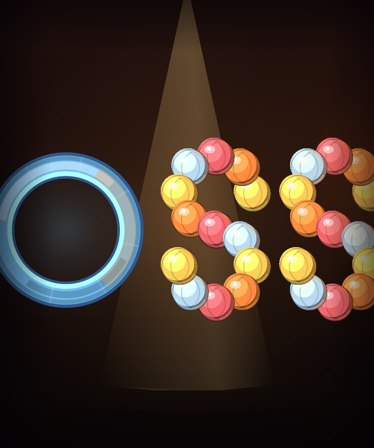
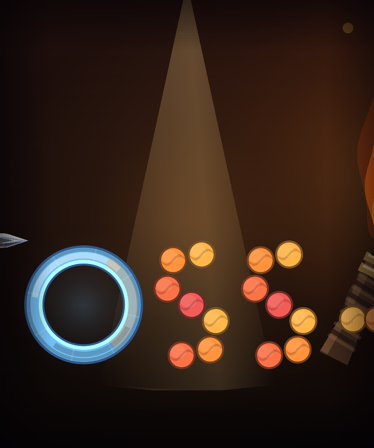
The title screen was the last bare draw_string menu in the game
The tagline is off the storefront capsule, and store/ was re-rendered - removing
a string from the code does not change the PNG anybody uploads, and that set was
still carrying the old club and the old mark besides.

The A's crossbar is four balls at the S's own size. One ball sized to the gap
made it the biggest ball in the picture, and a mark built out of props has to be
built out of the same props or the odd one reads as a different object. The count
is intervals PLUS ONE: sizing n to the span and spreading n balls over it leaves
n-1 gaps each wider than a ball, which is how the first try came out as three
balls with daylight between them.

Settings and Pause were both rebuilt off centred text rows into the shared card
language in July, for the reason recorded there. The title screen - the one that
makes the first impression - was still three lines of centred text. It has the
pause menu's language now, and the cards stand on the boards instead of floating
over a picture of a stage. menu_options() still decides what the rows are and
menu_input still drives menu_sel; only the dressing is new.

Four backdrops behind that one layout, in store/concepts/ beside the capsule
concepts. THE HOUSE ships: velvet, a box either side with heads on the rail,
footlights, boards. The old picture was a gradient, one cone and a row of bulbs
floating at the bottom edge attached to nothing, which is a lit void rather than
[…]

Changed region(s): [[0.4118, 0.1875, 1.0, 0.8438], [0.0, 0.3125, 0.3824, 0.8125], [0.9118, 0.0312, 0.9412, 0.0938]]

diff --git a/CLAUDE.md b/CLAUDE.md
@@ -598,6 +598,49 @@ rather than an implementation - see the foot of `tasks.md` for the two candidate
   **`--demo` now waits for the ovation before quitting**: it used to quit the frame the
   act resolved, which made the one path only a perfect act can reach impossible to test
   or screenshot at all.
+- **THE TITLE SCREEN IS A ROOM** (2026-07-30, Louis: "Make the title screen look better!, perhaps
+  just add some of your own ideas in the concepts folder, next to the rest"). Two halves, and the
+  first is not taste. **THE MENU WAS THE LAST BARE `draw_string` LIST IN THE GAME.** Settings and
+  Pause were both rebuilt off centred text rows into the shared card language in July for the
+  reason written down there - a flat row of text reads as cheap beside the shop and the sheet -
+  and the TITLE screen, the one that makes the first impression, was still doing it. `menu_rows`
+  gives the three options the pause menu's own language: an icon disc saying what the row does,
+  the name, a line under it saying where it goes, the lit one raised on its own colour. Nothing
+  about the list moved: `menu_options()` still decides what the rows ARE and `menu_input` still
+  drives `menu_sel`, so the dressing is a lookup keyed on the option's name and a name it does not
+  know simply draws plain.
+  **THE ROWS STAND ON THE BOARDS.** `oy` used to be a flat fraction of the screen with a
+  `mark_height()` floor under it; the cards are now laid so their FEET land just above the stage
+  lip (`MENU_FLOOR`), which is what makes them furniture in the room instead of text floating over
+  a picture of one. Clear of the lip by 16px on purpose - it is a bright 3px line with the
+  footlights burning right above it, and a card crossing it gets a hot line and a row of bulbs
+  showing through its own bottom edge.
+  **FOUR PICTURES, ONE LAYOUT** (`menu_backdrop`, `--menu N`, rendered to
+  `store/concepts/title_v1..4.png` beside the capsule concepts). Only the SET changes between
+  them - mark, rows and frame are identical in all four, the same discipline the five store
+  capsules follow, so a comparison is about the picture rather than about four layouts. **1 THE
+  HOUSE ships**: hung velvet, a box either side with heads on the rail, footlights along the lip,
+  boards for the menu to stand on. A title screen's job is to say what the game IS before a word
+  is read, and this game is a performer walking out in front of a room - the old picture was a
+  gradient, one cone and a row of bulbs floating at the bottom edge attached to nothing, which is
+  a lit VOID rather than a theatre. 2 FIRELIGHT (no set, the mark's own torches the only light),
+  3 NIGHT (the Midnight Show's language), 4 THE CURTAIN, CLOSED. Every one is built out of
+  furniture the stage already owns, which is the point: the title screen should be a room this
+  game already has, not a fifth art style.
+  **Three things went wrong on the way and all three are this file's own lessons, met again.**
+  (1) The curtain went in at 0.255 red with no veil, so the S's warm balls sat on warm cloth of
+  nearly their own value - the wordmark, the one thing that has to read instantly, had the least
+  contrast on the screen. It takes the same veil `draw_backdrop` washes over a venue's set
+  dressing, for the same reason: cloth behind the mark has to lose to it. (2) FIRELIGHT centred
+  `capsule_embers` on the mark and scattered thirty sparks THROUGH the lettering, where they read
+  as stray balls among the S's - the one thing a mark made of balls cannot afford. Dropped: the A
+  already sheds real embers off its own torches, placed by the fire that makes them. (3) NIGHT's
+  roofline was near-black on a sky that gets DARKER toward the horizon, so the bottom third went
+  to one flat black and only the lit windows showed, floating like tan bricks. That is the
+  Midnight Show's value-ladder rule and it is a LADDER: a wash of town light just above the
+  roofline first so the sky is brightest exactly where the roofs cut into it, then roofs clearly
+  above the sky's value, then windows well above both - and each window gets a halo, because a
+  lamp without one is just a brighter rectangle.
 - **THE WORDMARK READS AS A WORD** (2026-07-30, Louis: "move the letters closer together to seem
   more like the word tossa; remove the middle torch at the end (in A); replace the horizontal
   club with a ball; the middle ball in both s's are missing; remove 'a juggler's climb'"). Five
@@ -623,21 +666,32 @@ rather than an implementation - see the foot of `tasks.md` for the two candidate
   is recomputed from the same arithmetic that is written out beside it - the two terms moved in
   OPPOSITE directions and the total still grew, which is exactly why that block is arithmetic and
   not a nudge.
-  **THE CROSSBAR IS A BALL**, which is the right object by the game's own naming: the mark is
-  TOSS plus the letter a real juggling ball stands in for, which is what `TITLE_MARK` has said
-  from the start. It also solves what a club could not - a club is a LONG thing laid across two
-  strokes, so it had to be scaled to the gap, angled to the strokes and centred on its own
-  balance point, and it still read as a stick resting against the letter. `CAP_A_BALL` (0.46) is
-  its radius as a fraction of the GAP between the strokes: half would touch both exactly, which
-  reads as a ball in a vice. **The whole `CAP_CLUB_KNOB/_TIP/_LEN/_MID` block is deleted** - it
-  existed only because the LAYOUT needed the club's extent out there, and the club's own
-  measurements are `CLUB_BUTT_Y` / `CLUB_NOSE_Y` beside the profile that draws it.
+  **THE CROSSBAR IS BALLS**, which is the right object by the game's own naming: the mark is TOSS
+  plus the letter a real juggling ball stands in for, which is what `TITLE_MARK` has said from the
+  start. It also solves what a club could not - a club is a LONG thing laid across two strokes, so
+  it had to be scaled to the gap, angled to the strokes and centred on its own balance point, and
+  it still read as a stick resting against the letter. **And it is the S's ball at the S's size,
+  as many as it takes** (Louis, same day: "the ball between the torches should have the same size
+  as the other balls in the s, if it's too small to bridge the gap, just use more balls"). The
+  first version sized ONE ball to the gap, which made it far and away the biggest ball in the
+  picture - and a wordmark built out of props has to be built out of the SAME props, or the eye
+  reads the odd one as a different object rather than as the same material spelling a different
+  letter. So the radius is `CAP_BALL_R`, exactly what each ball in an S gets, and the COUNT does
+  the bridging: four at every size the mark is drawn. **The count is intervals PLUS ONE** - sizing
+  n to the span and then spreading n balls across it divides the span into n-1 gaps, each wider
+  than a ball, which laid three balls with daylight between them. `CAP_A_BALL` went with that, and
+  so did the whole `CAP_CLUB_KNOB/_TIP/_LEN/_MID` block: it existed only because the LAYOUT needed
+  the club's extent out there, and the club's own measurements are `CLUB_BUTT_Y` / `CLUB_NOSE_Y`
+  beside the profile that draws it.
   **`CAP_GAP` is 0.045**, down from 0.20 then 0.13. Third time on the same note, so a decisive
   cut rather than another shave: `cap_letter_width` measures each letter's real extent, so a gap
   here is true daylight between two objects rather than slack in a bounding box, and a word is
-  letters that nearly touch. The tagline came off the title screen and the menu rows moved UP
-  into the room it left, still measured off `mark_height()` - **the store capsule keeps it**,
-  since the ask was about the title screen and a storefront capsule wants a line.
+  letters that nearly touch. **The tagline is off both screens** - it came off the title screen
+  first and the capsule was left for one commit on the argument that a storefront capsule wants a
+  line under the logo. It does not want THIS one (Louis: "storefront capsule : jugglers climbs
+  remove it"), and the mark is the same mark in both places. **`store/` was re-rendered**, because
+  removing a string from the code does not change a PNG somebody uploads: `./render_store.sh` is
+  the whole set in one command and it must be run after anything that changes the key art.
 - **THE STAT MILESTONES ARE THINNED FOR DISPLAY, AND THAT IS A SECOND FUNCTION** (2026-07-30,
   Louis: they "look ugly and cramped ... you are allowed to change the tricks actual location,
   the rest you should choose what to show or not, don't move other stats around"). Strength

diff --git a/tasks.md b/tasks.md
@@ -461,3 +461,48 @@ requirement was touched.
 - **Records and history prints 9,223,372,0...** for the Backyard and the Circus - the INT64
   sentinel is reaching that board and being clipped mid-number by the column width. It was
   fixed for goals in an earlier commit; this is a different reader of the same value.
+
+## 18. The title screen, four ways (2026-07-30, later still)
+
+Louis: "storefront capsule : jugglers climbs remove it. the ball between the torches should have
+the same size as the other balls in the s, if it's too small to bridge the gap, just use more
+balls. Make the title screen look better!, perhaps just add some of your own ideas in the
+concepts folder, next to the rest"
+
+**The tagline is off the capsule and `store/` was re-rendered.** Removing the string from the
+code does not change the PNG anybody uploads, so `./render_store.sh` ran the whole six-slot set
+again - which also picks up the new club and the new mark, both of which the store art still
+had the old versions of.
+
+**The A's crossbar is four balls at the S's own size.** Sizing one ball to the gap had made it
+the biggest ball in the picture, and a mark built out of props has to be built out of the same
+props or the odd one reads as a different object. One thing to know if it is ever retuned: the
+count is intervals PLUS ONE. Sizing n to the span and spreading n balls across it leaves n-1
+gaps each wider than a ball, which is how the first try came out as three balls with daylight
+between them rather than a bar.
+
+**The title screen: the menu was the last bare `draw_string` list in the game.** Settings and
+Pause were both rebuilt into the card language in July for the reason recorded there, and the
+screen that makes the first impression was still three lines of centred text with `> Play <`
+round the lit one. It has the pause menu's language now - an icon disc, the name, a line saying
+where it goes - and the cards stand on the boards rather than floating over a picture. Nothing
+about the list or the input moved.
+
+**Four backdrops, one layout, in `store/concepts/title_v1..4.png` beside the capsule concepts.**
+Only the set changes between them, the same discipline the capsules follow, so picking is about
+the picture. **1 THE HOUSE ships** - velvet, a box either side with heads on the rail,
+footlights, boards - because a title screen's job is to say what the game is before a word is
+read, and this game is a performer walking out in front of a room. 2 is FIRELIGHT (no set, the
+mark's own torches), 3 is NIGHT (the Midnight Show's language, a roofline and lit windows), 4 is
+THE CURTAIN, CLOSED. Say which one you want and it is a one-line change; `--menu N` shows any of
+them live.
+
+All four are built out of stage furniture the game already owns. Three of this file's own
+lessons came back while doing it and are written up in CLAUDE.md: the curtain needed the same
+VEIL `draw_backdrop` puts over set dressing or it out-shouted the wordmark; FIRELIGHT's embers
+were centred on the mark and scattered sparks through the lettering, where they read as stray
+balls; and NIGHT's roofline was invisible until it got a proper value ladder plus a halo on
+every window.
+
+**Still open from before:** the S's read as clusters more than strokes (a real letter redesign,
+not a nudge), and Records and history still prints the clipped INT64 sentinel for two venues.
